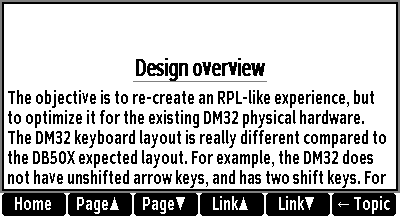
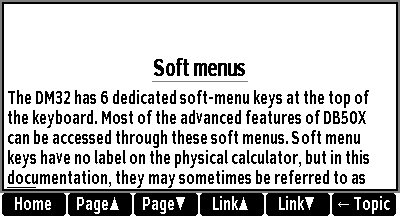
help: Record position for history even without a `\n`
The `shown` variable should be set even without a `\n`, so that
history records position correctly.

Fixes: #1044

Changed region(s): [[0.0, 0.4147, 0.99, 0.8848], [0.33, 0.2488, 0.66, 0.3871]]

diff --git a/src/user_interface.cc b/src/user_interface.cc
@@ -2807,7 +2807,7 @@ void user_interface::load_help(utf8 topic, size_t len)
         if (topics_history >= NUM_TOPICS)
         {
             // Overflow, keep the last topics
-            for (uint i         = 1; i < NUM_TOPICS; i++)
+            for (uint i = 1; i < NUM_TOPICS; i++)
                 topics[i - 1]   = topics[i];
             topics[topics_history - 1] = help;
         }
@@ -2973,13 +2973,13 @@ bool user_interface::draw_help()
         bool    blue       = false;
         style_name restyle = style;
 
-        if (last == '\n' && !shown)
+        if (!shown)
         {
             if (y >= ytop)
             {
                 shown  = helpfile.position();
             }
-            else if (line > 0 && y < ytop - 2*LCD_H)
+            else if (last == '\n' && line > 0 && y < ytop - 2*LCD_H)
             {
                 help = helpfile.position();
                 line = ytop + 2 - y;
